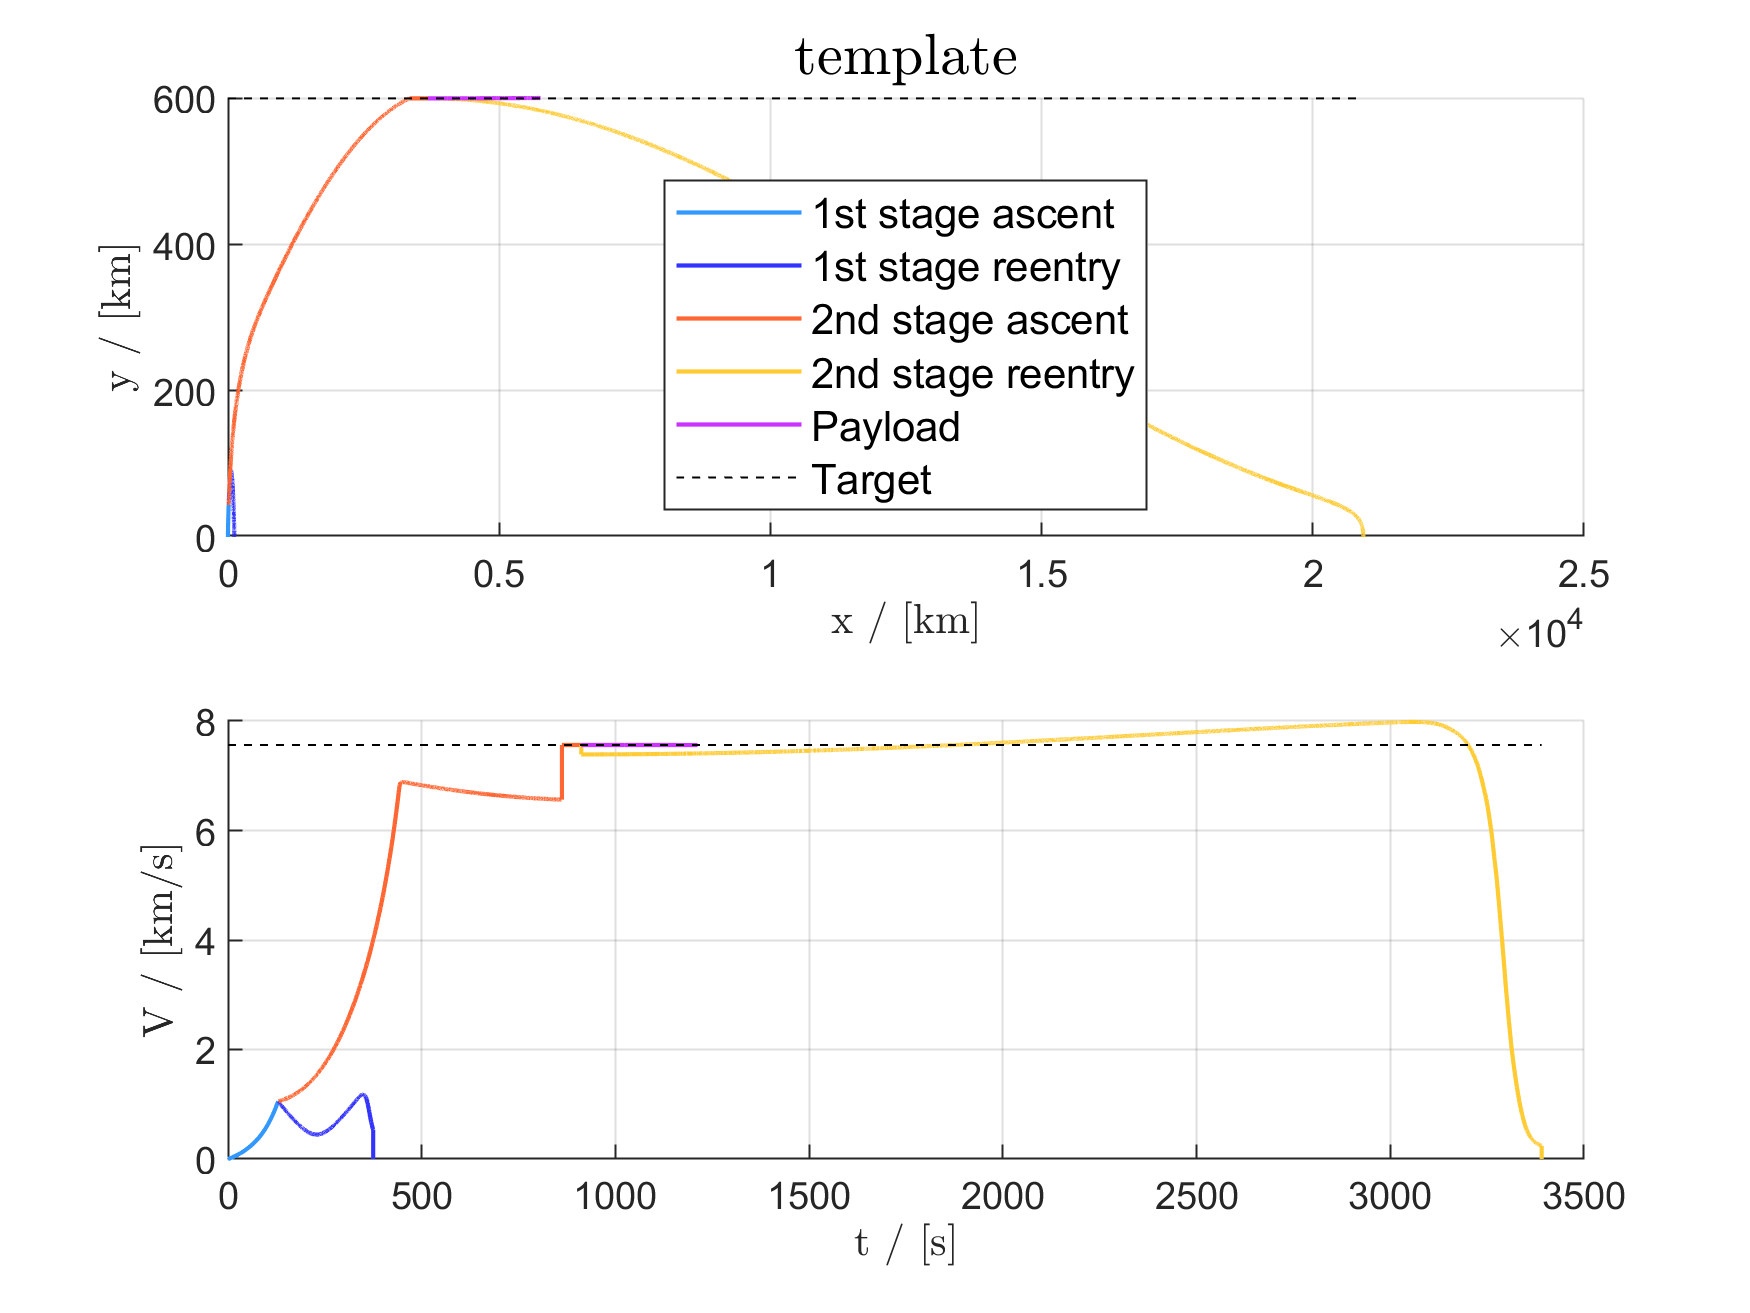
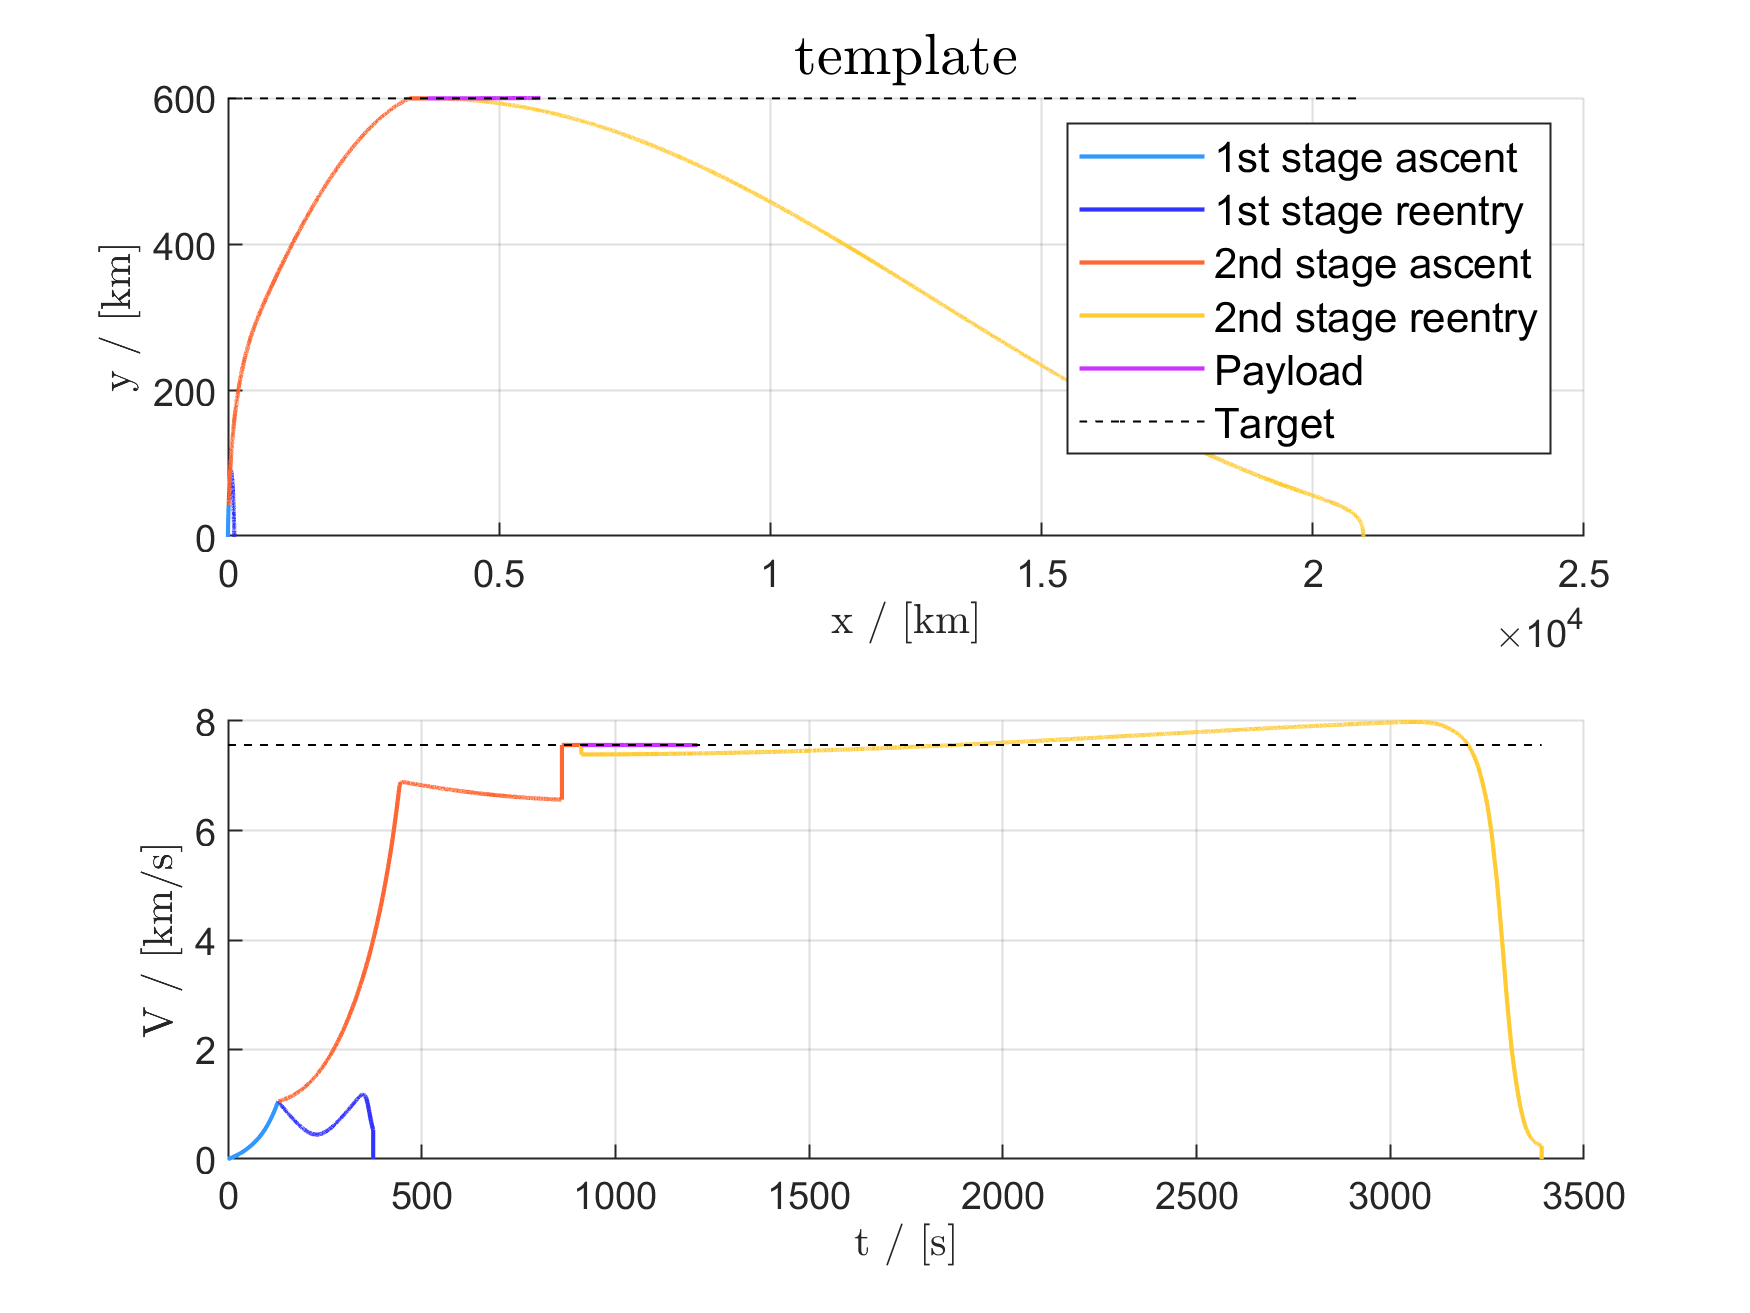
Separated plot of first and second stage
Into two figures so that they can be viewed simultaneously.

Changed region(s): [[0.3703, 0.0937, 0.8949, 0.4059]]

diff --git a/visualize.m b/visualize.m
@@ -1,6 +1,10 @@
 function visualize_animation(number_of_stages, trajectories, legends, plot_name)
     % visualize Plots the trajectory and velocities of the stages.
     
+    %% Entire trajectory
+
+    figure(1)
+    
     subplot(2,1,1)
     hold on
     grid on
@@ -16,13 +20,10 @@ function visualize_animation(number_of_stages, trajectories, legends, plot_name)
     set(0,'DefaultTextFontname', 'CMU Serif')
     set(0,'DefaultAxesFontName', 'CMU Serif')   
     
-%     colors = distinguishable_colors(3);
-%     colors = [colors(1,:); colors(1,:); colors(2,:); colors(2,:); colors(3,:); colors(1,:); colors(2,:)];
     colors = [51, 153, 255; 51, 51, 255; % Stage 1
         255, 102, 51; 255, 204, 51; % Stage 2;
         204, 51, 255; % Payload
         0, 0, 0]/256; % Target
-%     linestyles = ["-", "-.", "-", "--", "-", ":", ":"];%     
     linestyles = ["-", "-", "-", "-", "-", "--"];
     linewidths = [1,1,1,1,1,.5]*default_line_width;
     
@@ -48,39 +49,72 @@ function visualize_animation(number_of_stages, trajectories, legends, plot_name)
     
     subplot(2,1,1)
     title(plot_name, 'FontSize', fontsize_big)
-%     % --- Legend fixes
-%     % set unit for figure size to inches
-%     set(gcf, 'unit', 'inches');
-%     % get the original size of figure before the legends are added
-%     figure_size =  get(gcf, 'position');
-%     % add legends and get its handle
-%     h_legend = legend('legend1', legends)
-%     set(h_legend, 'location', 'northeastoutside')
-%     % set unit for legend size to inches
-%     set(h_legend, 'unit', 'inches')
-%     % get legend size
-%     legend_size = get(h_legend, 'position');
-%     % new figure width
-%     figure_size(3) = figure_size(3) + legend_size(3);
-%     % set new figure size
-%     set(gcf, 'position', figure_size)
-    l = legend(legends, 'location', 'south', 'fontname', 'CMU Serif', 'FontSize', fontsize_small);
+    l = legend(legends, 'location', 'northeast', 'fontname', 'CMU Serif', 'FontSize', fontsize_small);
 
     print(plot_name+".png", "-dpng", "-r300")
     
-    if input("Show 1st stage trajectory? (y/n)", 's') == "y"
-        % --- Plot of first stage
-        plot_name_first_stage = plot_name + " - 1st stage";
-        title(plot_name_first_stage, 'FontSize', fontsize_big)
+    %% First stage trajectory 
+    
+    figure(2)
+    
+    subplot(2,1,1)
+    hold on
+    grid on
+    subplot(2,1,2)
+    hold on
+    grid on
+    fontsize_big = 14;
+    fontsize_small = 10;
 
-        t_list = trajectories{2,1}; % Get first stage states
-        u_list = trajectories{2,2};
+    
+    default_line_width = 1;
+    set(0,'defaulttextinterpreter','latex')
+    set(0,'DefaultTextFontname', 'CMU Serif')
+    set(0,'DefaultAxesFontName', 'CMU Serif')   
+    
+    colors = [51, 153, 255; 51, 51, 255; % Stage 1
+        255, 102, 51; 255, 204, 51; % Stage 2;
+        204, 51, 255; % Payload
+        0, 0, 0]/256; % Target
+    linestyles = ["-", "-", "-", "-", "-", "--"];
+    linewidths = [1,1,1,1,1,.5]*default_line_width;
+    
+    
+    for n = 1:number_of_stages
+        t_list = trajectories{n,1};
+        u_list = trajectories{n,2};
+        x = u_list(:,3);
+        y = u_list(:,4);
+        V = u_list(:,1);
         subplot(2,1,1)
-        axis([0 max(u_list(:,3))/1000 0 max(u_list(:,4))/1000])
+        plot(x/1000,y/1000, "linewidth", linewidths(n), "color", colors(n,:), "linestyle", linestyles(n))
         subplot(2,1,2)
-        axis([0 max(t_list) 0 max(u_list(:,1))/1000])
-
-        print(plot_name_first_stage+".png", "-dpng", "-r300")
+        plot(t_list, V/1000, "linewidth", linewidths(n), "color", colors(n,:), "linestyle", linestyles(n));
     end
+    
+    subplot(2,1,1)
+    xlabel("x / [km]", 'FontSize', fontsize_small)
+    ylabel("y / [km]", 'FontSize', fontsize_small)
+    subplot(2,1,2)
+    xlabel("t / [s]", 'FontSize', fontsize_small)
+    ylabel("V / [km/s]", 'FontSize', fontsize_small)
+    
+    subplot(2,1,1)
+    plot_name_first_stage = plot_name + " - 1st stage";
+    title(plot_name_first_stage, 'FontSize', fontsize_big)
+    l = legend(legends, 'location', 'south', 'fontname', 'CMU Serif', 'FontSize', fontsize_small);
+
+    t_list = trajectories{2,1}; % Get first stage states
+    u_list = trajectories{2,2};
+    subplot(2,1,1)
+    axis([0 max(u_list(:,3))/1000 0 max(u_list(:,4))/1000])
+    subplot(2,1,2)
+    axis([0 max(t_list) 0 max(u_list(:,1))/1000])
+
+    print(plot_name_first_stage+".png", "-dpng", "-r300")
+    
+    %% Delta V plot
+    
+    
     
 end
